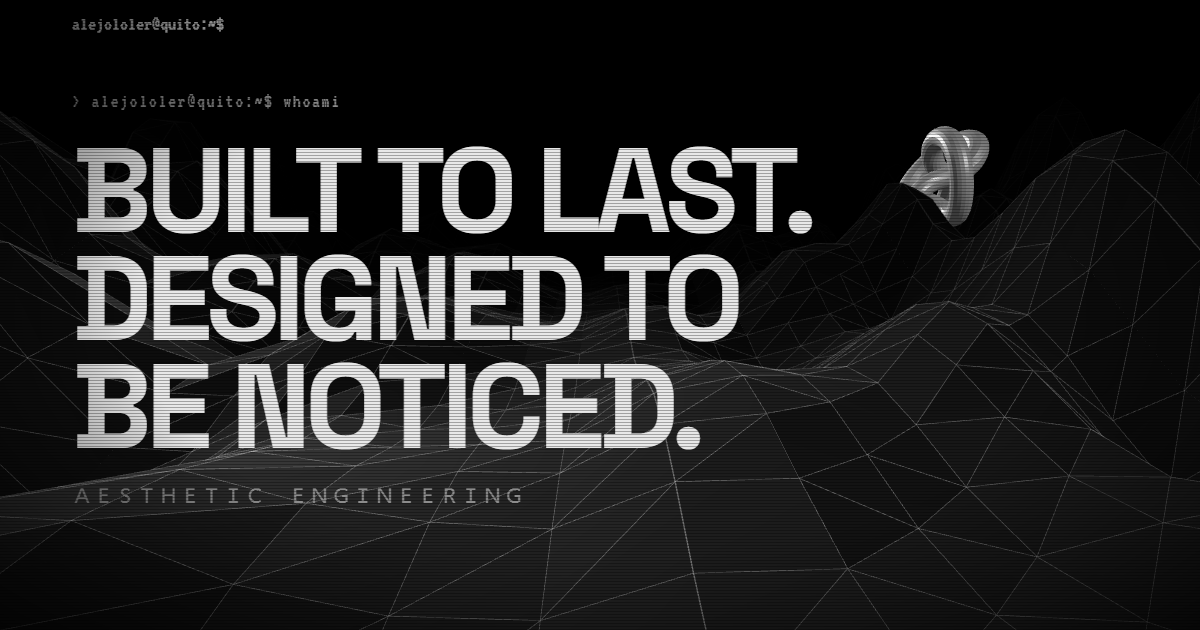
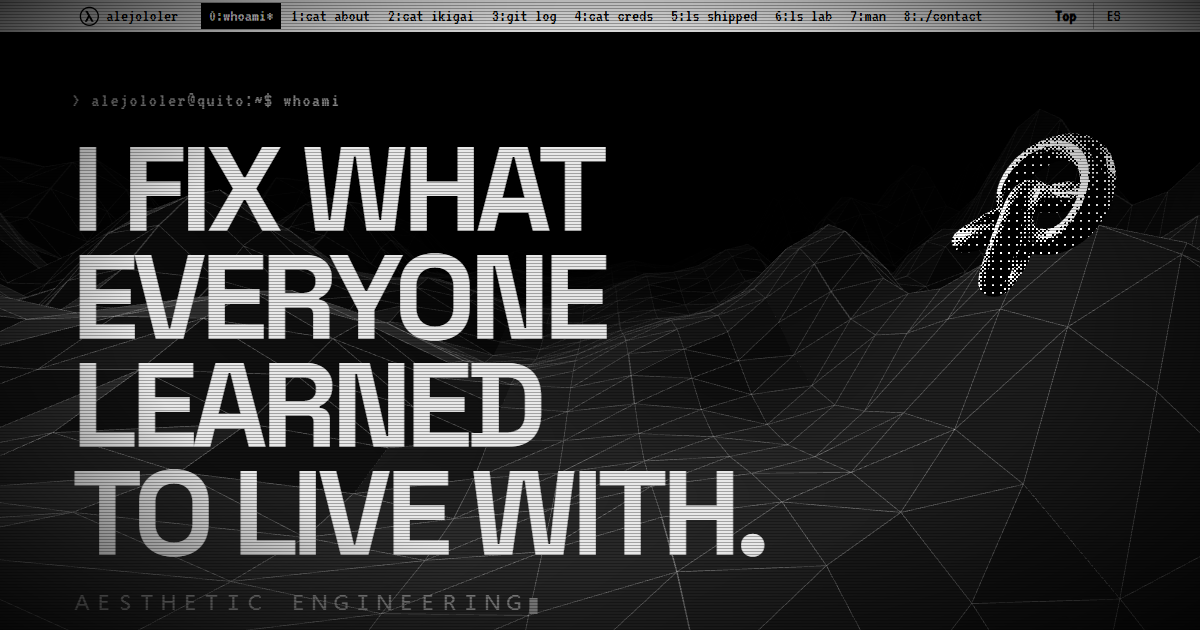
Refresh og.png with the new tagline; drop the nav key hint below 1500px so the section list fits

diff --git a/src/styles/global.css b/src/styles/global.css
@@ -176,7 +176,7 @@ footer a { text-decoration: none }
 .tmux a[aria-current] { background: #000; color: var(--hi) }
 .tmux a[aria-current]::after { content: "*" }
 .tmux .hint { color: #00000099 }
-@media (pointer: coarse) { .tmux .hint { display: none } }
+@media (pointer: coarse), (max-width: 1500px) { .tmux .hint { display: none } }   /* the hint is the first thing to go when the section list needs the room */
 .tmux .ch, .remote { display: none }
 
 /* --- phones: compact top bar + a TV remote within thumb reach --- */
